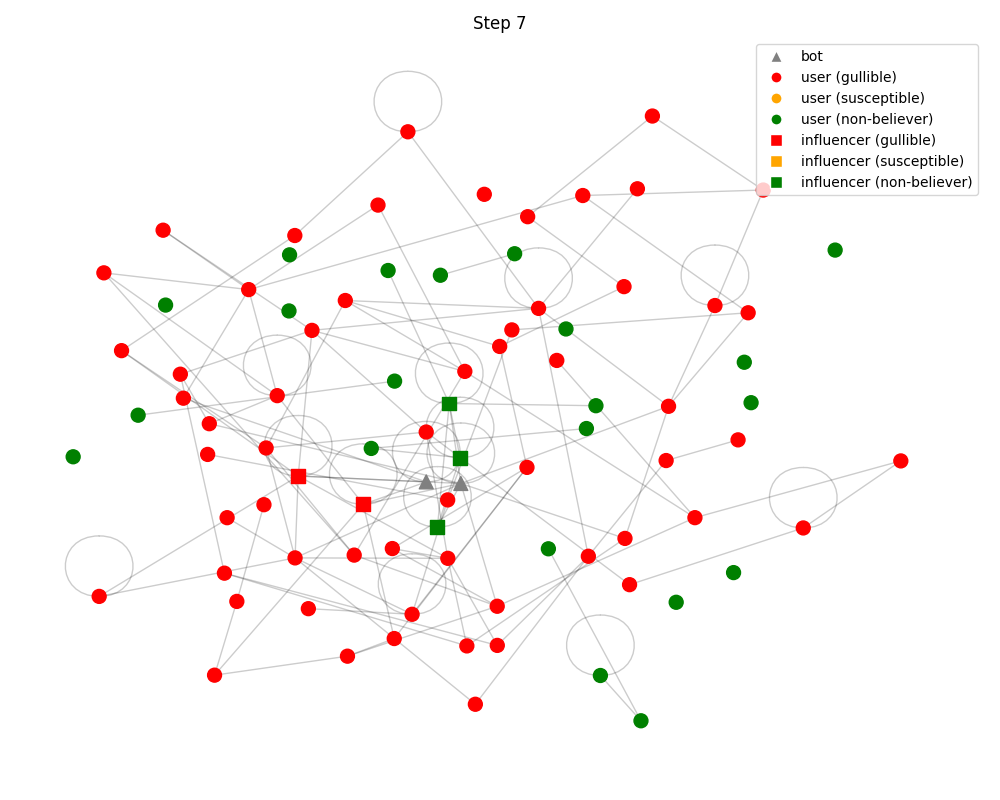
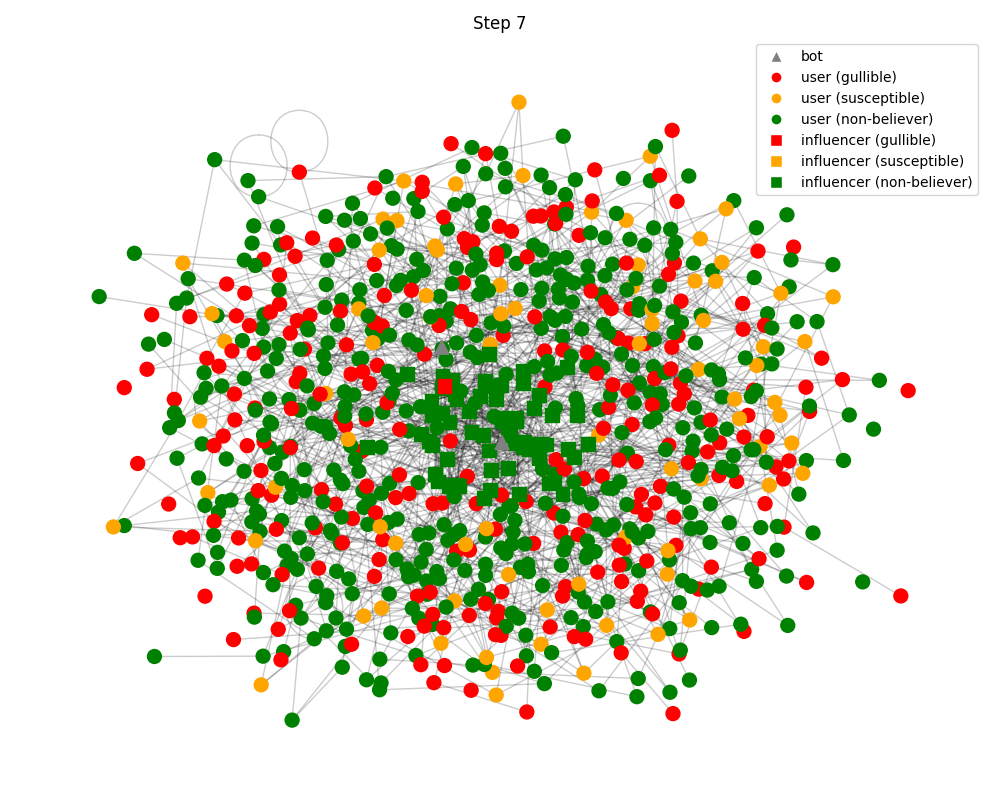
added true news

diff --git a/SocialAgent.py b/SocialAgent.py
@@ -16,74 +16,128 @@ class SocialAgent(Agent):
         if self.deleted:
             return
         if self.role == "bot":
-            news = News(content_id=str(uuid.uuid4()))
+            news = News(content_id=str(uuid.uuid4()), is_fake=True)
             for neighbor_id in list(self.model.graph.neighbors(self.unique_id)):
                 neighbor = self.model.agents_by_id[neighbor_id]
                 if not neighbor.deleted:
+                    news.sharers.add(self.unique_id)
                     self.news_registry[news.content_id] = news
+                    self.model.update_credibility(news)
                     neighbor.receive_fake_news(self.unique_id, news)
 
         
         elif self.role in ["user", "influencer"]:
-            if self.credulity == "gullible":
-                news = News(content_id=str(uuid.uuid4()))
+            if self.credulity == "gullible" and random.random() < 0.5:
+                news = News(content_id=str(uuid.uuid4()), is_fake=True)
                 for neighbor_id in list(self.model.graph.neighbors(self.unique_id)):
                     neighbor = self.model.agents_by_id[neighbor_id]
                     if not neighbor.deleted:
+                        news.sharers.add(self.unique_id)
                         self.news_registry[news.content_id] = news
+                        self.model.update_credibility(news)
+                        neighbor.receive_fake_news(self.unique_id, news)
+            elif self.credulity == "non-believer" and random.random() < 0.2:
+                news = News(content_id=str(uuid.uuid4()), is_fake=False)
+                for neighbor_id in list(self.model.graph.neighbors(self.unique_id)):
+                    neighbor = self.model.agents_by_id[neighbor_id]
+                    if not neighbor.deleted:
+                        news.sharers.add(self.unique_id)
+                        self.news_registry[news.content_id] = news
+                        self.model.update_credibility(news)
                         neighbor.receive_fake_news(self.unique_id, news)
                        
                     
     def receive_fake_news(self, sender_id, news):
-        release_step = self.model.delayed_news.get(news.content_id, 0)
-        if self.model.step_num >= release_step:
-            if self.credulity == "non-believer":
-                sender = self.model.agents_by_id[sender_id]
-                if random.random() < 0.2: 
-                        print(f"Non-believer {self.unique_id} non crede a {sender.unique_id} per news {news.content_id}")
-                        self.model.graph.remove_edge(self.unique_id, sender.unique_id)
-                        sender = self.model.agents_by_id[sender_id]
-                        sender.reports_received += 1
-                        news.reports += 1
-                        if news.reports >= 2 and not news.is_flagged:
-                            news.is_flagged = True
-                            self.model.delayed_news[news.content_id] = self.model.step_num + 2
-                            print(f"News {news.content_id} è stata flaggata come sospetta")
-                        self.news_registry[news.content_id] = news
-                        if sender.reports_received >= 3:
-                            sender.deleted = True
-                            print(sender.reports_received, "report received")
-                            print(sender_id, "deleted")
+        sender = self.model.agents_by_id[sender_id]
+        score = news.credibility_score
 
-            elif self.credulity == "susceptible":
-                gullible_neighbors = [
-                    self.model.agents_by_id[n]
-                    for n in self.model.graph.neighbors(self.unique_id)
-                    if self.model.agents_by_id[n].credulity == "gullible"
-                ]
-                n_gullible = len(gullible_neighbors)
-                if news.is_flagged:
-                    if random.random() < 0.3:
-                        self.credulity = "non-believer"
-                        print(f"{self.unique_id} è diventato non-believer per notizia flaggata {news.content_id}")
-                else:
-                    prob = min(0.1 * n_gullible, 0.9)
-                    if random.random() < prob and news.content_id not in self.news_registry:
-                        self.credulity = "gullible"
-                        for neighbor_id in list(self.model.graph.neighbors(self.unique_id)):
-                            neighbor = self.model.agents_by_id[neighbor_id]
-                            if not neighbor.deleted:
-                                self.news_registry[news.content_id] = news
-                                neighbor.receive_fake_news(self.unique_id, news)
-                    
+        # === NON-BELIEVER ===
+        if self.credulity == "non-believer":
+            if news.is_flagged:
+                self.model.graph.remove_edge(self.unique_id, sender.unique_id)
+                sender.reports_received += 1
+                news.reports += 1
+                self.news_registry[news.content_id] = news
+                if news.reports >= 3 and not news.is_flagged:
+                    news.is_flagged = True
+                    print(f"News {news.content_id} è stata flaggata come sospetta")
+                if sender.reports_received >= 5:
+                    sender.deleted = True
+                    print(sender.reports_received, "report received")
+                    print(sender_id, "deleted")
 
-            elif self.credulity == "gullible" and news.content_id not in self.news_registry:
-                if random.random() < 0.5: 
+            elif score >= 0.7 and random.random() < 0.6:
+                news.sharers.add(self.unique_id)
+                self.news_registry[news.content_id] = news
+                self.model.update_credibility(news)
+                for neighbor_id in list(self.model.graph.neighbors(self.unique_id)):
+                    neighbor = self.model.agents_by_id[neighbor_id]
+                    if not neighbor.deleted and news.content_id not in neighbor.news_registry:
+                        neighbor.receive_fake_news(self.unique_id, news)
+
+            elif score < 0.3 and random.random() < 0.6:
+                self.model.graph.remove_edge(self.unique_id, sender.unique_id)
+                sender.reports_received += 1
+                news.reports += 1
+                self.news_registry[news.content_id] = news
+                if news.reports >= 3 and not news.is_flagged:
+                    news.is_flagged = True
+                    print(f"News {news.content_id} è stata flaggata come sospetta")
+                if sender.reports_received >= 5:
+                    sender.deleted = True
+                    print(sender.reports_received, "report received")
+                    print(sender_id, "deleted")
+
+            else:
+                if random.random() < 0.3:
+                    if news.is_fake:
+                        print(f"Non-believer {score} ha condiviso una fake news")
+                    news.sharers.add(self.unique_id)
+                    self.news_registry[news.content_id] = news
+                    self.model.update_credibility(news)
                     for neighbor_id in list(self.model.graph.neighbors(self.unique_id)):
                         neighbor = self.model.agents_by_id[neighbor_id]
-                        if not neighbor.deleted:
-                            self.news_registry[news.content_id] = news
+                        if not neighbor.deleted and news.content_id not in neighbor.news_registry:
                             neighbor.receive_fake_news(self.unique_id, news)
-                            
+
+        # === SUSCEPTIBLE ===
+        elif self.credulity == "susceptible":
+            gullible_neighbors = [
+                self.model.agents_by_id[n]
+                for n in self.model.graph.neighbors(self.unique_id)
+                if self.model.agents_by_id[n].credulity == "gullible"
+            ]
+            n_gullible = len(gullible_neighbors)
+
+            if news.is_flagged and score < 0.3:
+                if random.random() < 0.5:
+                    self.credulity = "non-believer"
+                 
+
+            elif news.is_fake:
+                prob = min(0.1 * n_gullible, 0.9)
+                if random.random() < prob and news.content_id not in self.news_registry:
+                    self.credulity = "gullible"
+                    news.sharers.add(self.unique_id)
+                    self.news_registry[news.content_id] = news
+                    self.model.update_credibility(news)
+                    for neighbor_id in list(self.model.graph.neighbors(self.unique_id)):
+                        neighbor = self.model.agents_by_id[neighbor_id]
+                        if not neighbor.deleted and news.content_id not in neighbor.news_registry:
+                            neighbor.receive_fake_news(self.unique_id, news)
+
+        # === GULLIBLE ===
+        elif self.credulity == "gullible" and news.content_id not in self.news_registry:
+            share_prob = 1.0 if news.is_fake else 0.2  
+            if random.random() < share_prob:
+                if news.is_fake == False:
+                     print(f"gullible {self.unique_id} ha condiviso una true news")
+                news.sharers.add(self.unique_id)
+                self.news_registry[news.content_id] = news
+                self.model.update_credibility(news)
+                for neighbor_id in list(self.model.graph.neighbors(self.unique_id)):
+                    neighbor = self.model.agents_by_id[neighbor_id]
+                    if not neighbor.deleted and news.content_id not in neighbor.news_registry:
+                        neighbor.receive_fake_news(self.unique_id, news)
 
 

diff --git a/FakeNewsModel.py b/FakeNewsModel.py
@@ -51,6 +51,41 @@ class FakeNewsModel(Model):
             self.agent_set.add(custom_agents)
             self.agents_by_id[custom_agents.unique_id] = custom_agents
 
+                                
+    def update_credibility(self, news):
+        if not news.sharers:
+            news.credibility_score = 0.5
+            return
+
+        gullible = 0
+        susceptible = 0
+        non_believer = 0
+        bots = 0
+
+        for agent_id in news.sharers:
+            agent = self.agents_by_id[agent_id]
+            if agent.role == "bot":
+                bots += 1
+            elif agent.credulity == "gullible":
+                gullible += 1
+            elif agent.credulity == "susceptible":
+                susceptible += 1
+            elif agent.credulity == "non-believer":
+                non_believer += 1
+
+        total = gullible + susceptible + non_believer + bots
+        if total == 0:
+            news.credibility_score = 0.5
+            return
+
+        score = (
+            0.2 * gullible +
+            0.4 * susceptible +
+            0.8 * non_believer +
+            0.0 * bots
+        ) / total
+
+        news.credibility_score = round(score, 3)
 
 
 

diff --git a/main.py b/main.py
@@ -5,7 +5,7 @@ import networkx as nx
 from matplotlib.patches import Patch
 from matplotlib.lines import Line2D
 
-model = FakeNewsModel(num_agents=100, num_influencers=10, num_bots=5)
+model = FakeNewsModel(num_agents=100, num_influencers=100, num_bots=50)
 
 color_map = {
     "non-believer": "green",
@@ -21,7 +21,7 @@ shape_map = {
 
 pos = nx.spring_layout(model.graph, seed=42)
 
-for step_num in range(20):
+for step_num in range(10):
     print(f"Step {step_num}")
     if step_num % 3 == 0:
         print("nuova connessione")
@@ -69,7 +69,7 @@ for step_num in range(20):
             del model.agents_by_id[agent.unique_id]
             model.graph.remove_node(agent.unique_id)
         agent.shared = False
-    model.step()
+    
     susceptible = [a.unique_id for a in model.agents if a.credulity == "susceptible"]
     plt.figure(figsize=(10, 8))
    
@@ -113,3 +113,4 @@ for step_num in range(20):
     plt.savefig(f"results/step_{step_num:02d}.png")
     plt.close()
 
+    model.step()

diff --git a/News.py b/News.py
@@ -1,5 +1,8 @@
 class News:
-    def __init__(self, content_id):
+    def __init__(self, content_id, is_fake):
         self.content_id = content_id  
         self.is_flagged = False  
         self.reports = 0
+        self.is_fake = is_fake
+        self.sharers = set()
+        self.credibility_score = 0.5
